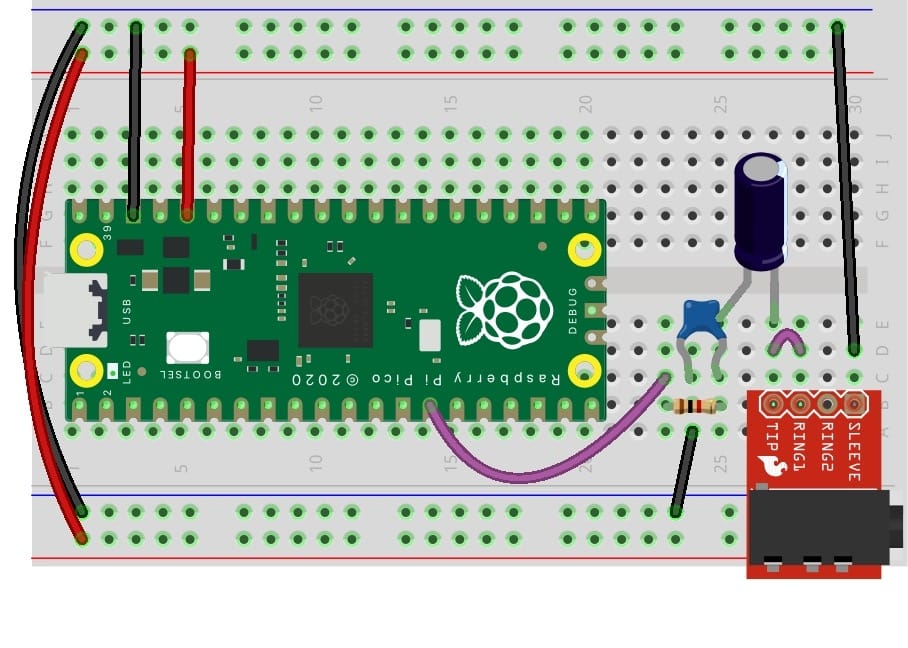
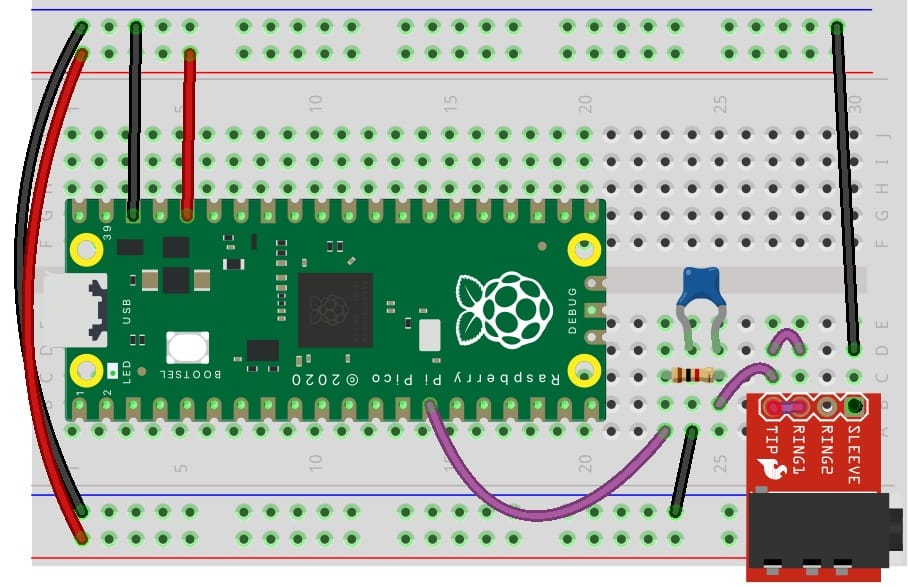
remove DC blocking cap from PWM circuit example so headphones can be used

diff --git a/synthio/README.md b/synthio/README.md
@@ -55,8 +55,7 @@ Synthio Tricks
 ###  Get Audio out working
   - Example circuits:
     - Pico w/ RC filter and `audiopwmio.PWMAudioOut`
-    (R1=1k, C1=100n, C2=47uF,
-    [Sparkfun TRRS](https://www.sparkfun.com/products/11570))
+    (R1=1k, C1=100n, [Sparkfun TRRS](https://www.sparkfun.com/products/11570))
     <img src="./imgs/synthio_pico_pwm_bb.jpg" width=500>
 
     - Pico w/ [I2S PCM5102](https://amzn.to/3MGOTJH) and `audiobusio.I2SOut`
